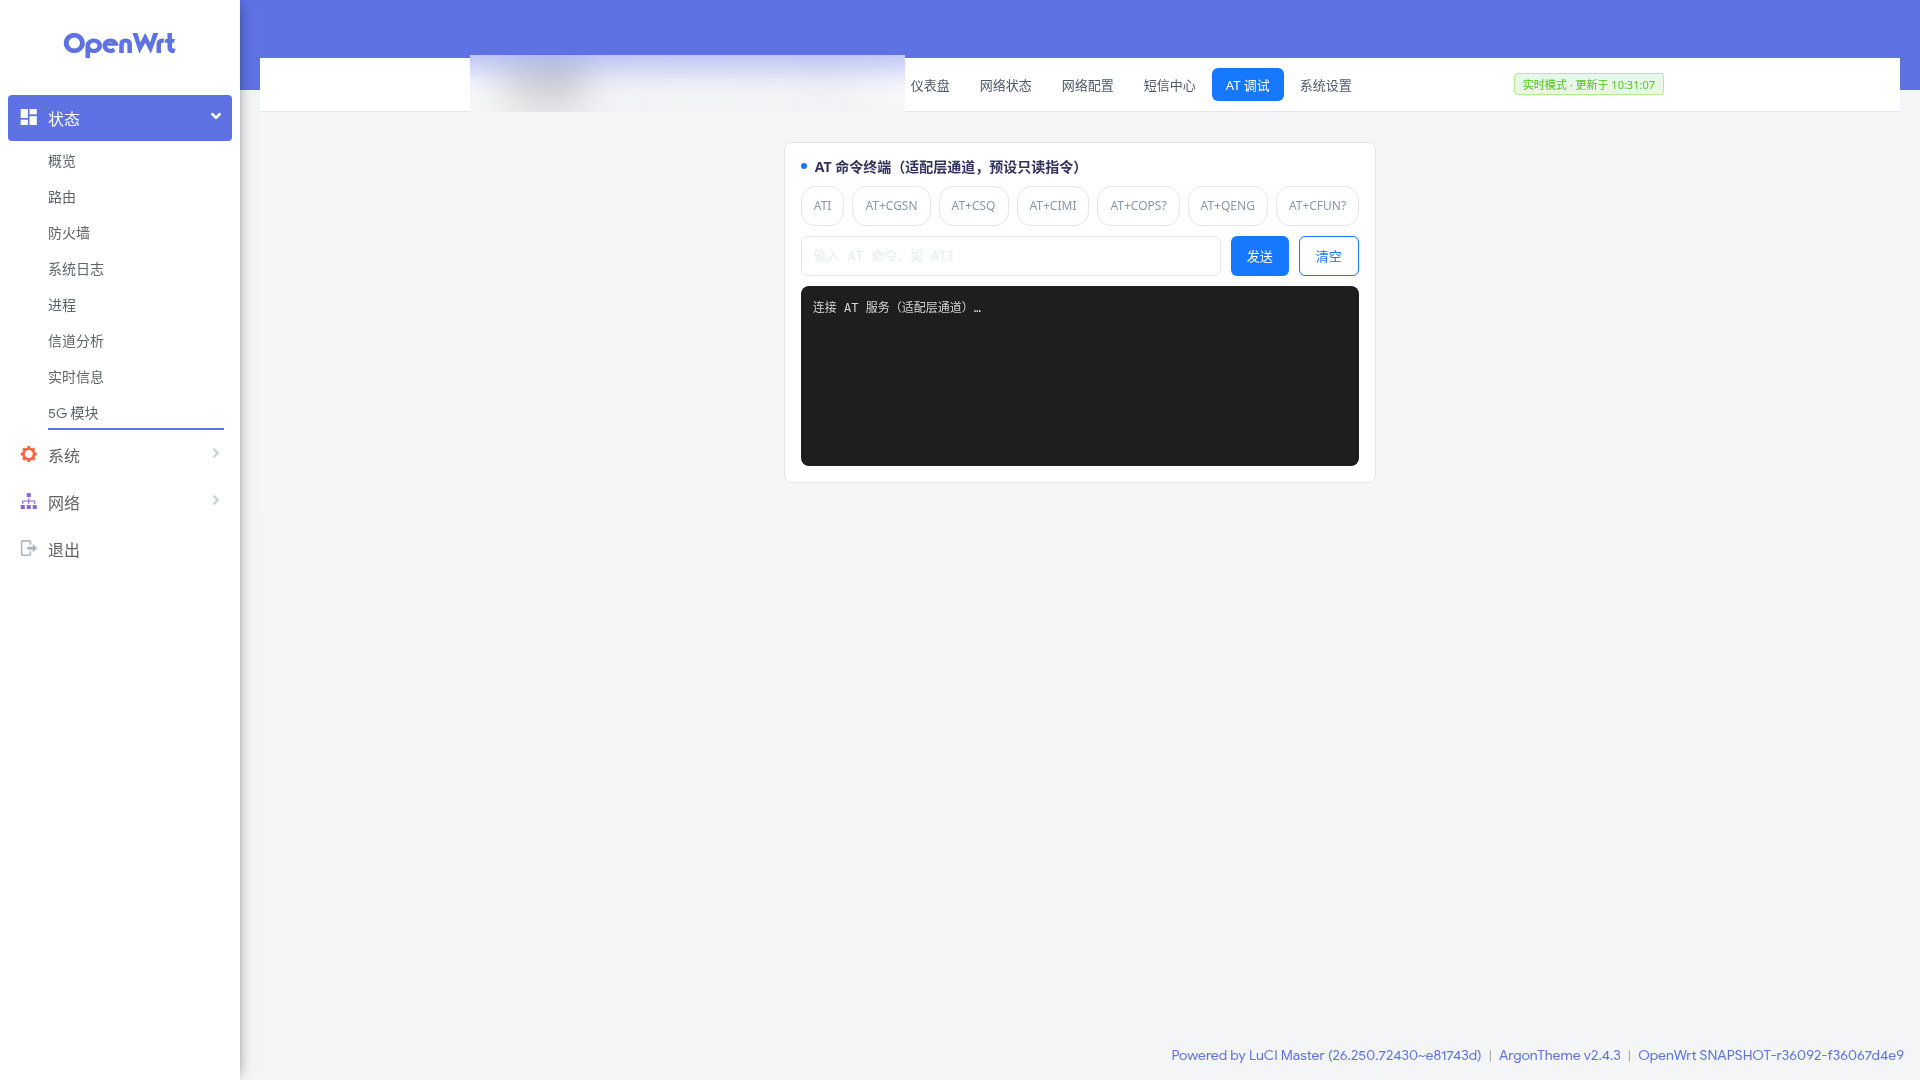
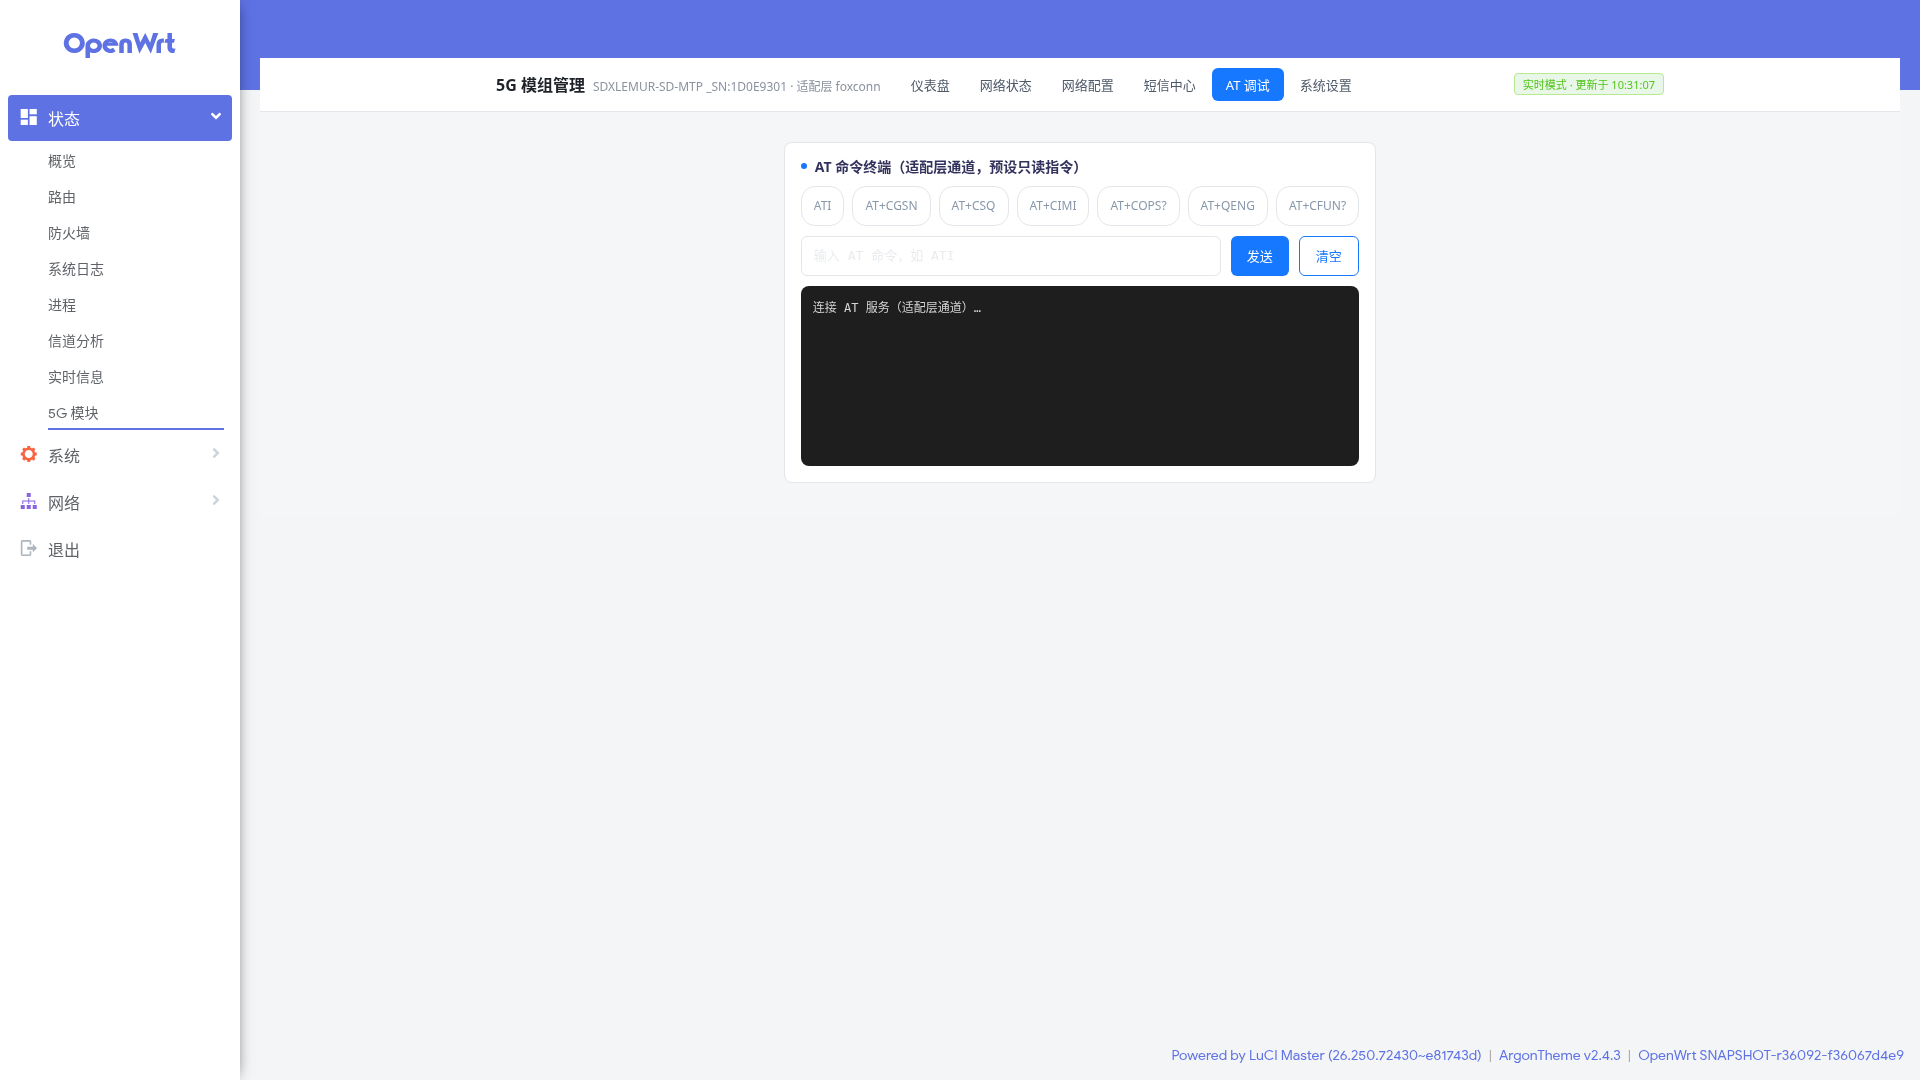
取消其他页打码改原图；sms 仅打码来电号码；主README加界面截图区块

Changed region(s): [[0.25, 0.0306, 0.4688, 0.1222]]

diff --git a/modem5g-plugin/screenshots/README.md b/modem5g-plugin/screenshots/README.md
@@ -8,12 +8,11 @@
 | `dashboard.png` | 仪表盘：连接状态/信号/速率/流量/温度 + 趋势图 + 宿主机状态 |
 | `network-status.png` | 网络状态：信号强度、网络参数、载波聚合/小区、基本信息、PING 时延、数据面 |
 | `network-config.png` | 网络配置：拨号设置(APN)、制式选择、小区锁定、频段锁定 |
+| `sms.png` | 短信中心：短信收发列表（仅演示收件箱展示） |
 | `atdebug.png` | AT 调试：只读 AT 命令终端 + 信道分析 |
 | `system.png` | 系统设置：看门狗状态/事件、LED 联动、端口转发与防火墙(只读) |
 
-## 隐私处理说明
-- 已对截图中的**真实模块序列号(SN)、公网 IP、IPv6 地址**进行高斯模糊打码
-- **IMEI/ICCID/IMSI 前端本身已掩码显示**(如 `3551****282`),非明文
-- **`sms`(短信中心)截图未公开**：该页含真实个人短信(话费账单、来电号码等),属高敏内容,不适合放入公开仓库。如需演示短信功能,请在实机用测试卡生成脱敏短信后再截。
-
-截图仅供界面展示参考,不代表当前实机实时数据。
+## 隐私说明
+- IMEI/ICCID/IMSI 前端本身已掩码显示(如 `3551****282`),非明文
+- `sms.png` 中**来电电话号码已打码处理**;该页其余内容(运营商账单短信等)为真实短信演示,如需完全脱敏请在实机用测试 SIM 生成
+- 设备序列号等设备标识与原机一致(截图即实机界面)

diff --git a/README.md b/README.md
@@ -22,6 +22,21 @@ LuCI 管理插件、AT 指令逆向成果、模块内部架构分析。
 └── T99W368_OpenFi6C_完整适配文档.md  方案 C 完整适配记录
 ```
 
+## 🖼 界面截图
+
+6 个 Tab 实机界面截图(1920×1080)：
+
+| Tab | 预览 | 路径 |
+|-----|------|------|
+| 仪表盘 | ![dashboard](modem5g-plugin/screenshots/dashboard.png) | `modem5g-plugin/screenshots/dashboard.png` |
+| 网络状态 | ![network-status](modem5g-plugin/screenshots/network-status.png) | `modem5g-plugin/screenshots/network-status.png` |
+| 网络配置 | ![network-config](modem5g-plugin/screenshots/network-config.png) | `modem5g-plugin/screenshots/network-config.png` |
+| 短信中心 | ![sms](modem5g-plugin/screenshots/sms.png) | `modem5g-plugin/screenshots/sms.png` |
+| AT 调试 | ![atdebug](modem5g-plugin/screenshots/atdebug.png) | `modem5g-plugin/screenshots/atdebug.png` |
+| 系统设置 | ![system](modem5g-plugin/screenshots/system.png) | `modem5g-plugin/screenshots/system.png` |
+
+> 短信页的来电电话号码已打码;IMEI/ICCID/IMSI 前端本身掩码显示。
+
 ## ✨ 插件功能
 
 - **状态三卡**：连接状态（5G 载波/LTE 锚点信号 RSRP/SINR）、模块信息（IMEI/ICCID/IMSI/温度）、数据面（IP/会话流量）
